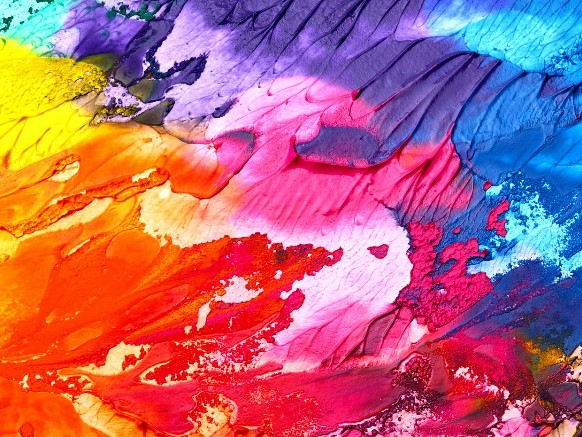
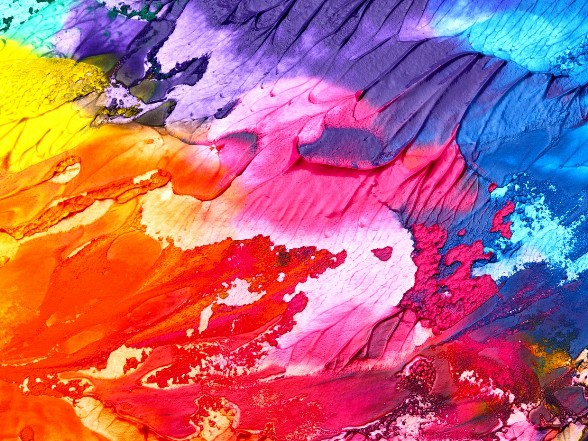
55

diff --git a/pcss/index.css b/pcss/index.css
@@ -34,7 +34,7 @@
 	#imContentGraphics { display: block; -ms-grid-column: 2; -ms-grid-column-span: 1; grid-column: 2 / 3; -ms-grid-row: 2; -ms-grid-row-span: 1; grid-row: 2 / 3; }
 	
 }
-#imContent { display: -ms-grid; display: grid; -ms-grid-columns: minmax(0, 1fr) 27.667px 27.667px 27.667px 27.667px 27.667px 27.667px 27.667px 27.667px 27.667px 27.667px 27.667px 27.667px 27.667px 27.667px 27.667px 27.667px 27.667px 27.667px 27.667px 27.667px 27.667px 27.667px 27.667px 27.667px 27.667px 27.667px 27.667px 27.667px 27.667px 27.667px 27.667px 27.667px 27.667px 27.667px 27.667px 27.667px 27.667px 27.667px 27.667px 27.667px 27.667px 27.667px 27.667px 27.667px 27.667px 27.667px 27.667px 27.667px minmax(0, 1fr); grid-template-columns: minmax(0, 1fr) 27.667px 27.667px 27.667px 27.667px 27.667px 27.667px 27.667px 27.667px 27.667px 27.667px 27.667px 27.667px 27.667px 27.667px 27.667px 27.667px 27.667px 27.667px 27.667px 27.667px 27.667px 27.667px 27.667px 27.667px 27.667px 27.667px 27.667px 27.667px 27.667px 27.667px 27.667px 27.667px 27.667px 27.667px 27.667px 27.667px 27.667px 27.667px 27.667px 27.667px 27.667px 27.667px 27.667px 27.667px 27.667px 27.667px 27.667px 27.667px minmax(0, 1fr); -ms-grid-rows: auto auto auto auto auto auto auto auto auto auto auto auto auto auto auto auto auto auto auto auto auto; grid-template-rows: auto auto auto auto auto auto auto auto auto auto auto auto auto auto auto auto auto auto auto auto auto; }
+#imContent { display: -ms-grid; display: grid; -ms-grid-columns: minmax(0, 1fr) 27.917px 27.917px 27.917px 27.917px 27.917px 27.917px 27.917px 27.917px 27.917px 27.917px 27.917px 27.917px 27.917px 27.917px 27.917px 27.917px 27.917px 27.917px 27.917px 27.917px 27.917px 27.917px 27.917px 27.917px 27.917px 27.917px 27.917px 27.917px 27.917px 27.917px 27.917px 27.917px 27.917px 27.917px 27.917px 27.917px 27.917px 27.917px 27.917px 27.917px 27.917px 27.917px 27.917px 27.917px 27.917px 27.917px 27.917px 27.917px minmax(0, 1fr); grid-template-columns: minmax(0, 1fr) 27.917px 27.917px 27.917px 27.917px 27.917px 27.917px 27.917px 27.917px 27.917px 27.917px 27.917px 27.917px 27.917px 27.917px 27.917px 27.917px 27.917px 27.917px 27.917px 27.917px 27.917px 27.917px 27.917px 27.917px 27.917px 27.917px 27.917px 27.917px 27.917px 27.917px 27.917px 27.917px 27.917px 27.917px 27.917px 27.917px 27.917px 27.917px 27.917px 27.917px 27.917px 27.917px 27.917px 27.917px 27.917px 27.917px 27.917px 27.917px minmax(0, 1fr); -ms-grid-rows: auto auto auto auto auto auto auto auto auto auto auto auto auto auto auto auto auto auto auto auto auto; grid-template-rows: auto auto auto auto auto auto auto auto auto auto auto auto auto auto auto auto auto auto auto auto auto; }
 #imGoToCont { display: block; -ms-grid-column: 2; -ms-grid-column-span: 1; grid-column: 2 / 3; -ms-grid-row: 1; -ms-grid-row-span: 1; grid-row: 1 / 2; }
 #imCell_1 { display: -ms-grid; display: grid; -ms-grid-column: 1; -ms-grid-column-span: 50; grid-column: 1 / 51; -ms-grid-row: 1; -ms-grid-row-span: 1; grid-row: 1 / 2; }
 #imCell_10 { display: -ms-grid; display: grid; -ms-grid-column: 2; -ms-grid-column-span: 48; grid-column: 2 / 50; -ms-grid-row: 2; -ms-grid-row-span: 1; grid-row: 2 / 3; }
@@ -436,10 +436,10 @@ max-height: 100%; position: absolute; top: 0; bottom: 0; left: 3px; margin: auto
 #imObjectImage_12 { position: relative; -ms-grid-row-align: start; align-self: start; -ms-grid-column-align: center; justify-self: center; max-width: 100%; box-sizing: border-box; z-index: 3; }
 #imCellStyleGraphics_12 { position: absolute; top: 0px; bottom: 0px; background-color: transparent; }
 #imCellStyleBorders_12 { position: absolute; top: 0px; bottom: 0px; }
-#imObjectImage_12 #imObjectImage_12_container { width: 662px; max-width: 100%; }
+#imObjectImage_12 #imObjectImage_12_container { width: 668px; max-width: 100%; }
 #imObjectImage_12 { vertical-align: top; margin: 0 auto; }
 #imObjectImage_12 #imObjectImage_12_container img { width: 100%; vertical-align: top; }#imCell_11 { -ms-grid-columns: 100%; grid-template-columns: 100%; position: relative; box-sizing: border-box; }
-#imObjectImage_11 { position: relative; -ms-grid-row-align: start; align-self: start; -ms-grid-column-align: center; justify-self: center; max-width: 100%; box-sizing: border-box; z-index: 3; }
+#imObjectImage_11 { position: relative; -ms-grid-row-align: center; align-self: center; -ms-grid-column-align: center; justify-self: center; max-width: 100%; box-sizing: border-box; z-index: 3; }
 #imCellStyleGraphics_11 { position: absolute; top: 40px; bottom: 40px; background-color: transparent; }
 #imCellStyleBorders_11 { position: absolute; top: 40px; bottom: 40px; }
 #imObjectImage_11 #imObjectImage_11_container { width: 1280px; max-width: 100%; }
@@ -452,7 +452,7 @@ max-height: 100%; position: absolute; top: 0; bottom: 0; left: 3px; margin: auto
 #imObjectImage_14 { position: relative; -ms-grid-row-align: start; align-self: start; -ms-grid-column-align: center; justify-self: center; max-width: 100%; box-sizing: border-box; z-index: 3; }
 #imCellStyleGraphics_14 { position: absolute; top: 0px; bottom: 0px; background-color: transparent; }
 #imCellStyleBorders_14 { position: absolute; top: 0px; bottom: 0px; }
-#imObjectImage_14 #imObjectImage_14_container { width: 592px; max-width: 100%; }
+#imObjectImage_14 #imObjectImage_14_container { width: 598px; max-width: 100%; }
 #imObjectImage_14 { vertical-align: top; margin: 0 auto; }
 #imObjectImage_14 #imObjectImage_14_container img { width: 100%; vertical-align: top; }#imCell_22 { -ms-grid-columns: 100%; grid-template-columns: 100%; position: relative; box-sizing: border-box; }
 #imTextObject_22 { position: relative; -ms-grid-row-align: start; align-self: start; -ms-grid-column-align: center; justify-self: center; max-width: 100%; box-sizing: border-box; z-index: 3; }
@@ -510,7 +510,7 @@ max-height: 100%; position: absolute; top: 0; bottom: 0; left: 3px; margin: auto
 #imObjectImage_09 { position: relative; -ms-grid-row-align: start; align-self: start; -ms-grid-column-align: center; justify-self: center; max-width: 100%; box-sizing: border-box; z-index: 3; }
 #imCellStyleGraphics_9 { position: absolute; top: 0px; bottom: 0px; background-color: transparent; }
 #imCellStyleBorders_9 { position: absolute; top: 0px; bottom: 0px; }
-#imObjectImage_09 #imObjectImage_09_container { width: 592px; max-width: 100%; }
+#imObjectImage_09 #imObjectImage_09_container { width: 598px; max-width: 100%; }
 #imObjectImage_09 { vertical-align: top; margin: 0 auto; }
 #imObjectImage_09 #imObjectImage_09_container img { width: 100%; vertical-align: top; }#imCell_13 { -ms-grid-columns: 100%; grid-template-columns: 100%; position: relative; box-sizing: border-box; }
 #imTextObject_13 { position: relative; -ms-grid-row-align: start; align-self: start; -ms-grid-column-align: center; justify-self: center; max-width: 100%; box-sizing: border-box; z-index: 3; }
@@ -568,7 +568,7 @@ max-height: 100%; position: absolute; top: 0; bottom: 0; left: 3px; margin: auto
 #imObjectImage_17 { position: relative; -ms-grid-row-align: start; align-self: start; -ms-grid-column-align: center; justify-self: center; max-width: 100%; box-sizing: border-box; z-index: 3; }
 #imCellStyleGraphics_17 { position: absolute; top: 0px; bottom: 0px; background-color: transparent; }
 #imCellStyleBorders_17 { position: absolute; top: 0px; bottom: 0px; }
-#imObjectImage_17 #imObjectImage_17_container { width: 592px; max-width: 100%; }
+#imObjectImage_17 #imObjectImage_17_container { width: 598px; max-width: 100%; }
 #imObjectImage_17 { vertical-align: top; margin: 0 auto; }
 #imObjectImage_17 #imObjectImage_17_container img { width: 100%; vertical-align: top; }#imCell_24 { -ms-grid-columns: 100%; grid-template-columns: 100%; position: relative; box-sizing: border-box; }
 #imTextObject_24 { position: relative; -ms-grid-row-align: start; align-self: start; -ms-grid-column-align: center; justify-self: center; max-width: 100%; box-sizing: border-box; z-index: 3; }
@@ -626,7 +626,7 @@ max-height: 100%; position: absolute; top: 0; bottom: 0; left: 3px; margin: auto
 #imObjectImage_16 { position: relative; -ms-grid-row-align: start; align-self: start; -ms-grid-column-align: center; justify-self: center; max-width: 100%; box-sizing: border-box; z-index: 3; }
 #imCellStyleGraphics_16 { position: absolute; top: 0px; bottom: 0px; background-color: transparent; }
 #imCellStyleBorders_16 { position: absolute; top: 0px; bottom: 0px; }
-#imObjectImage_16 #imObjectImage_16_container { width: 592px; max-width: 100%; }
+#imObjectImage_16 #imObjectImage_16_container { width: 598px; max-width: 100%; }
 #imObjectImage_16 { vertical-align: top; margin: 0 auto; }
 #imObjectImage_16 #imObjectImage_16_container img { width: 100%; vertical-align: top; }#imCell_23 { -ms-grid-columns: 100%; grid-template-columns: 100%; position: relative; box-sizing: border-box; }
 #imTextObject_23 { position: relative; -ms-grid-row-align: start; align-self: start; -ms-grid-column-align: center; justify-self: center; max-width: 100%; box-sizing: border-box; z-index: 3; }
@@ -751,7 +751,7 @@ max-height: 100%; position: absolute; top: 0; bottom: 0; left: 3px; margin: auto
 #imObjectImage_30 { position: relative; -ms-grid-row-align: center; align-self: center; -ms-grid-column-align: center; justify-self: center; max-width: 100%; box-sizing: border-box; z-index: 3; }
 #imCellStyleGraphics_30 { position: absolute; top: 0px; bottom: 0px; background-color: transparent; }
 #imCellStyleBorders_30 { position: absolute; top: 0px; bottom: 0px; }
-#imObjectImage_30 #imObjectImage_30_container { width: 582px; max-width: 100%; }
+#imObjectImage_30 #imObjectImage_30_container { width: 588px; max-width: 100%; }
 #imObjectImage_30 { vertical-align: top; margin: 0 auto; }
 #imObjectImage_30 #imObjectImage_30_container img { width: 100%; vertical-align: top; }#imCell_31 { -ms-grid-columns: 100%; grid-template-columns: 100%; position: relative; box-sizing: border-box; }
 #imTextObject_31 { position: relative; -ms-grid-row-align: start; align-self: start; -ms-grid-column-align: center; justify-self: center; max-width: 100%; box-sizing: border-box; z-index: 3; }
@@ -810,7 +810,7 @@ max-height: 100%; position: absolute; top: 0; bottom: 0; left: 3px; margin: auto
 #imObjectImage_28 { position: relative; -ms-grid-row-align: start; align-self: start; -ms-grid-column-align: center; justify-self: center; max-width: 100%; box-sizing: border-box; z-index: 3; }
 #imCellStyleGraphics_28 { position: absolute; top: 0px; bottom: 0px; background-color: transparent; }
 #imCellStyleBorders_28 { position: absolute; top: 0px; bottom: 0px; }
-#imObjectImage_28 #imObjectImage_28_container { width: 582px; max-width: 100%; }
+#imObjectImage_28 #imObjectImage_28_container { width: 588px; max-width: 100%; }
 #imObjectImage_28 { vertical-align: top; margin: 0 auto; }
 #imObjectImage_28 #imObjectImage_28_container img { width: 100%; vertical-align: top; }#imCell_29 { -ms-grid-columns: 100%; grid-template-columns: 100%; position: relative; box-sizing: border-box; }
 #imTextObject_29 { position: relative; -ms-grid-row-align: start; align-self: start; -ms-grid-column-align: center; justify-self: center; max-width: 100%; box-sizing: border-box; z-index: 3; }
@@ -869,7 +869,7 @@ max-height: 100%; position: absolute; top: 0; bottom: 0; left: 3px; margin: auto
 #imObjectImage_34 { position: relative; -ms-grid-row-align: start; align-self: start; -ms-grid-column-align: center; justify-self: center; max-width: 100%; box-sizing: border-box; z-index: 3; }
 #imCellStyleGraphics_34 { position: absolute; top: 0px; bottom: 0px; background-color: transparent; }
 #imCellStyleBorders_34 { position: absolute; top: 0px; bottom: 0px; }
-#imObjectImage_34 #imObjectImage_34_container { width: 582px; max-width: 100%; }
+#imObjectImage_34 #imObjectImage_34_container { width: 588px; max-width: 100%; }
 #imObjectImage_34 { vertical-align: top; margin: 0 auto; }
 #imObjectImage_34 #imObjectImage_34_container img { width: 100%; vertical-align: top; }#imCell_35 { -ms-grid-columns: 100%; grid-template-columns: 100%; position: relative; box-sizing: border-box; }
 #imTextObject_35 { position: relative; -ms-grid-row-align: start; align-self: start; -ms-grid-column-align: center; justify-self: center; max-width: 100%; box-sizing: border-box; z-index: 3; }
@@ -928,7 +928,7 @@ max-height: 100%; position: absolute; top: 0; bottom: 0; left: 3px; margin: auto
 #imObjectImage_32 { position: relative; -ms-grid-row-align: center; align-self: center; -ms-grid-column-align: center; justify-self: center; max-width: 100%; box-sizing: border-box; z-index: 3; }
 #imCellStyleGraphics_32 { position: absolute; top: 0px; bottom: 0px; background-color: transparent; }
 #imCellStyleBorders_32 { position: absolute; top: 0px; bottom: 0px; }
-#imObjectImage_32 #imObjectImage_32_container { width: 582px; max-width: 100%; }
+#imObjectImage_32 #imObjectImage_32_container { width: 588px; max-width: 100%; }
 #imObjectImage_32 { vertical-align: top; margin: 0 auto; }
 #imObjectImage_32 #imObjectImage_32_container img { width: 100%; vertical-align: top; }#imCell_33 { -ms-grid-columns: 100%; grid-template-columns: 100%; position: relative; box-sizing: border-box; }
 #imTextObject_33 { position: relative; -ms-grid-row-align: start; align-self: start; -ms-grid-column-align: center; justify-self: center; max-width: 100%; box-sizing: border-box; z-index: 3; }
@@ -991,7 +991,7 @@ max-height: 100%; position: absolute; top: 0; bottom: 0; left: 3px; margin: auto
 #imObjectImage_38 { position: relative; -ms-grid-row-align: start; align-self: start; -ms-grid-column-align: center; justify-self: center; max-width: 100%; box-sizing: border-box; z-index: 3; }
 #imCellStyleGraphics_38 { position: absolute; top: 0px; bottom: 0px; background-color: transparent; }
 #imCellStyleBorders_38 { position: absolute; top: 0px; bottom: 0px; }
-#imObjectImage_38 #imObjectImage_38_container { width: 664px; max-width: 100%; }
+#imObjectImage_38 #imObjectImage_38_container { width: 670px; max-width: 100%; }
 #imObjectImage_38 { vertical-align: top; margin: 0 auto; }
 #imObjectImage_38 #imObjectImage_38_container img { width: 100%; vertical-align: top; }#imCell_39 { -ms-grid-columns: 100%; grid-template-columns: 100%; position: relative; box-sizing: border-box; }
 #imObjectImage_39 { position: relative; -ms-grid-row-align: end; align-self: end; -ms-grid-column-align: center; justify-self: center; max-width: 100%; box-sizing: border-box; z-index: 3; }
@@ -1016,8 +1016,6 @@ max-height: 100%; position: absolute; top: 0; bottom: 0; left: 3px; margin: auto
 #imCellStyleGraphics_20 { position: absolute; top: 40px; bottom: 0px; background-color: transparent; }
 #imCellStyleBorders_20 { position: absolute; top: 40px; bottom: 0px; }
 @media (min-width: 1340px) {
-	#imContent { padding-left: 10px; padding-right:0px; }
-	#imCell_1, #imCell_20, #imCell_21, .imPageRow { margin-left: -10px; }
 	#imCell_1 { padding-top: 0px; padding-bottom: 0px; padding-left: 0px; padding-right: 0px; }
 	#imCell_1 { -ms-grid-rows: 100%; grid-template-rows: 100%; }
 	#pluginAppObj_01 { padding-top: 0px; padding-bottom: 0px; padding-left: 0px; padding-right: 0px; }

diff --git a/style/template.css b/style/template.css
@@ -23,7 +23,7 @@ body { margin: 0; padding: 0; text-align: left; height: 100%; }
 		#imSideBar { background-image: none; background-color: rgba(238, 242, 245, 1); overflow: visible; zoom: 1; z-index: 200; }
 		#imSideBarObjects { position: relative; height: 600px; }
 		#imStickyBarContainer { top: 0; left: 0; right: 0; margin: auto; width: 100%; height: 81px; box-sizing: border-box; z-index: 10301; }
-		#imStickyBarGraphics { top: 0; left: 0; right: 0; margin: auto; width: 100%; height: 81px; box-sizing: border-box; background-image: url('stickyback_js7swjrc.png'); background-position: left top; background-repeat: repeat-x; background-attachment: scroll; background-color: transparent; position: absolute; opacity: 1}
+		#imStickyBarGraphics { top: 0; left: 0; right: 0; margin: auto; width: 100%; height: 81px; box-sizing: border-box; background-image: url('stickyback_9zu605fd.png'); background-position: left top; background-repeat: repeat-x; background-attachment: scroll; background-color: transparent; position: absolute; opacity: 1}
 		#imStickyBar { position: relative; top: 0; left: 0; margin: auto; width: 1340px }
 		#imStickyBarObjects { position: relative; height: 81px; }
 	
@@ -42,7 +42,7 @@ body { margin: 0; padding: 0; text-align: left; height: 100%; }
 		#imSideBar { background-image: none; background-color: transparent; overflow: visible; zoom: 1; z-index: 200; }
 		#imSideBarObjects { position: relative; height: 600px; }
 		#imStickyBarContainer { top: 0; left: 0; right: 0; margin: auto; width: 100%; height: 81px; box-sizing: border-box; z-index: 10301; }
-		#imStickyBarGraphics { top: 0; left: 0; right: 0; margin: auto; width: 100%; height: 81px; box-sizing: border-box; background-image: url('stickyback_5dq9g1tm.png'); background-position: left top; background-repeat: repeat-x; background-attachment: scroll; background-color: transparent; position: absolute; opacity: 1}
+		#imStickyBarGraphics { top: 0; left: 0; right: 0; margin: auto; width: 100%; height: 81px; box-sizing: border-box; background-image: url('stickyback_v0q576hs.png'); background-position: left top; background-repeat: repeat-x; background-attachment: scroll; background-color: transparent; position: absolute; opacity: 1}
 		#imStickyBar { position: relative; top: 0; left: 0; margin: auto; width: 720px }
 		#imStickyBarObjects { position: relative; height: 81px; }
 	
@@ -61,7 +61,7 @@ body { margin: 0; padding: 0; text-align: left; height: 100%; }
 		#imSideBar { background-image: none; background-color: transparent; overflow: visible; zoom: 1; z-index: 200; }
 		#imSideBarObjects { position: relative; height: 600px; }
 		#imStickyBarContainer { top: 0; left: 0; right: 0; margin: auto; width: 100%; height: 81px; box-sizing: border-box; z-index: 10301; }
-		#imStickyBarGraphics { top: 0; left: 0; right: 0; margin: auto; width: 100%; height: 81px; box-sizing: border-box; background-image: url('stickyback_9xotqjc1.png'); background-position: left top; background-repeat: repeat-x; background-attachment: scroll; background-color: transparent; position: absolute; opacity: 1}
+		#imStickyBarGraphics { top: 0; left: 0; right: 0; margin: auto; width: 100%; height: 81px; box-sizing: border-box; background-image: url('stickyback_kdwc3z40.png'); background-position: left top; background-repeat: repeat-x; background-attachment: scroll; background-color: transparent; position: absolute; opacity: 1}
 		#imStickyBar { position: relative; top: 0; left: 0; margin: auto; width: 480px }
 		#imStickyBarObjects { position: relative; height: 81px; }
 	
@@ -80,7 +80,7 @@ body { margin: 0; padding: 0; text-align: left; height: 100%; }
 		#imSideBar { background-image: none; background-color: transparent; overflow: visible; zoom: 1; z-index: 200; }
 		#imSideBarObjects { position: relative; height: 600px; }
 		#imStickyBarContainer { top: 0; left: 0; right: 0; margin: auto; width: 100%; height: 81px; box-sizing: border-box; z-index: 10301; }
-		#imStickyBarGraphics { top: 0; left: 0; right: 0; margin: auto; width: 100%; height: 81px; box-sizing: border-box; background-image: url('stickyback_ru7ku9zb.png'); background-position: left top; background-repeat: repeat-x; background-attachment: scroll; background-color: transparent; position: absolute; opacity: 1}
+		#imStickyBarGraphics { top: 0; left: 0; right: 0; margin: auto; width: 100%; height: 81px; box-sizing: border-box; background-image: url('stickyback_f501b6hv.png'); background-position: left top; background-repeat: repeat-x; background-attachment: scroll; background-color: transparent; position: absolute; opacity: 1}
 		#imStickyBar { position: relative; top: 0; left: 0; margin: auto; width: 320px }
 		#imStickyBarObjects { position: relative; height: 81px; }
 	

diff --git a/pcss/page-9.css b/pcss/page-9.css
@@ -34,7 +34,7 @@
 	#imContentGraphics { display: block; -ms-grid-column: 2; -ms-grid-column-span: 1; grid-column: 2 / 3; -ms-grid-row: 2; -ms-grid-row-span: 1; grid-row: 2 / 3; }
 	
 }
-#imContent { display: -ms-grid; display: grid; -ms-grid-columns: minmax(0, 1fr) 55.417px 55.417px 55.417px 55.417px 55.417px 55.417px 55.417px 55.417px 55.417px 55.417px 55.417px 55.417px 55.417px 55.417px 55.417px 55.417px 55.417px 55.417px 55.417px 55.417px 55.417px 55.417px 55.417px 55.417px minmax(0, 1fr); grid-template-columns: minmax(0, 1fr) 55.417px 55.417px 55.417px 55.417px 55.417px 55.417px 55.417px 55.417px 55.417px 55.417px 55.417px 55.417px 55.417px 55.417px 55.417px 55.417px 55.417px 55.417px 55.417px 55.417px 55.417px 55.417px 55.417px 55.417px minmax(0, 1fr); -ms-grid-rows: auto auto auto auto auto auto auto auto auto; grid-template-rows: auto auto auto auto auto auto auto auto auto; }
+#imContent { display: -ms-grid; display: grid; -ms-grid-columns: minmax(0, 1fr) 55.833px 55.833px 55.833px 55.833px 55.833px 55.833px 55.833px 55.833px 55.833px 55.833px 55.833px 55.833px 55.833px 55.833px 55.833px 55.833px 55.833px 55.833px 55.833px 55.833px 55.833px 55.833px 55.833px 55.833px minmax(0, 1fr); grid-template-columns: minmax(0, 1fr) 55.833px 55.833px 55.833px 55.833px 55.833px 55.833px 55.833px 55.833px 55.833px 55.833px 55.833px 55.833px 55.833px 55.833px 55.833px 55.833px 55.833px 55.833px 55.833px 55.833px 55.833px 55.833px 55.833px 55.833px minmax(0, 1fr); -ms-grid-rows: auto auto auto auto auto auto auto auto auto; grid-template-rows: auto auto auto auto auto auto auto auto auto; }
 #imContent > header { display: block; -ms-grid-column: 2; -ms-grid-column-span: 24; grid-column: 2 / 26; -ms-grid-row: 1; -ms-grid-row-span: 1; grid-row: 1 / 2; }
 #imGoToCont { display: block; -ms-grid-column: 2; -ms-grid-column-span: 1; grid-column: 2 / 3; -ms-grid-row: 1; -ms-grid-row-span: 1; grid-row: 1 / 2; }
 #imCell_4 { display: -ms-grid; display: grid; -ms-grid-column: 2; -ms-grid-column-span: 24; grid-column: 2 / 26; -ms-grid-row: 2; -ms-grid-row-span: 1; grid-row: 2 / 3; }
@@ -424,7 +424,7 @@ max-height: 100%; position: absolute; top: 0; bottom: 0; left: 3px; margin: auto
 #imObjectImage_9_24 { position: relative; -ms-grid-row-align: start; align-self: start; -ms-grid-column-align: center; justify-self: center; max-width: 100%; box-sizing: border-box; z-index: 3; }
 #imCellStyleGraphics_24 { position: absolute; top: 35px; bottom: 35px; background-color: transparent; }
 #imCellStyleBorders_24 { position: absolute; top: 35px; bottom: 35px; }
-#imObjectImage_9_24 #imObjectImage_9_24_container { width: 1248px; max-width: 100%; }
+#imObjectImage_9_24 #imObjectImage_9_24_container { width: 1258px; max-width: 100%; }
 #imObjectImage_9_24 { vertical-align: top; margin: 0 auto; }
 #imObjectImage_9_24 #imObjectImage_9_24_container img { width: 100%; vertical-align: top; }#imCell_30 { -ms-grid-columns: 100%; grid-template-columns: 100%; position: relative; box-sizing: border-box; }
 #pluginAppObj_9_30 { position: relative; -ms-grid-row-align: start; align-self: start; -ms-grid-column-align: center; justify-self: center; max-width: 100%; box-sizing: border-box; z-index: 3; }
@@ -484,9 +484,7 @@ max-height: 100%; position: absolute; top: 0; bottom: 0; left: 3px; margin: auto
 #imTextObject_9_31 .text-container .grid-prop {-ms-grid-column: 1; -ms-grid-row: 1; grid-area: 1 / 1 / 2 / 2; opacity: 0; box-sizing: border-box; position: relative;  }
 #imTextObject_9_31 .text-container .text-tab-content.detach {position: absolute; top: 0; left: 0; width: 100%; display: none; }
 @media (min-width: 1340px) {
-	#imContent { padding-left: 10px; padding-right:0px; }
-	#imCell_30, .imPageRow { margin-left: -10px; }
-	#imPgTitle { width: 1316px; margin-left: 6px; margin-right: 6px; }
+	#imPgTitle { width: 1326px; margin-left: 6px; margin-right: 6px; }
 	#imCell_4 { padding-top: 3px; padding-bottom: 3px; padding-left: 3px; padding-right: 3px; }
 	#imCell_4 { -ms-grid-rows: 100%; grid-template-rows: 100%; }
 	#pluginAppObj_9_04 { padding-top: 3px; padding-bottom: 3px; padding-left: 3px; padding-right: 3px; }

diff --git a/pcss/admin.css b/pcss/admin.css
@@ -34,7 +34,7 @@
 	#imContentGraphics { display: block; -ms-grid-column: 2; -ms-grid-column-span: 1; grid-column: 2 / 3; -ms-grid-row: 2; -ms-grid-row-span: 1; grid-row: 2 / 3; }
 	
 }
-#imContent { display: -ms-grid; display: grid; -ms-grid-columns: minmax(0, 1fr) 55.417px 55.417px 55.417px 55.417px 55.417px 55.417px 55.417px 55.417px 55.417px 55.417px 55.417px 55.417px 55.417px 55.417px 55.417px 55.417px 55.417px 55.417px 55.417px 55.417px 55.417px 55.417px 55.417px 55.417px minmax(0, 1fr); grid-template-columns: minmax(0, 1fr) 55.417px 55.417px 55.417px 55.417px 55.417px 55.417px 55.417px 55.417px 55.417px 55.417px 55.417px 55.417px 55.417px 55.417px 55.417px 55.417px 55.417px 55.417px 55.417px 55.417px 55.417px 55.417px 55.417px 55.417px minmax(0, 1fr); -ms-grid-rows: auto auto; grid-template-rows: auto auto; }
+#imContent { display: -ms-grid; display: grid; -ms-grid-columns: minmax(0, 1fr) 55.833px 55.833px 55.833px 55.833px 55.833px 55.833px 55.833px 55.833px 55.833px 55.833px 55.833px 55.833px 55.833px 55.833px 55.833px 55.833px 55.833px 55.833px 55.833px 55.833px 55.833px 55.833px 55.833px 55.833px minmax(0, 1fr); grid-template-columns: minmax(0, 1fr) 55.833px 55.833px 55.833px 55.833px 55.833px 55.833px 55.833px 55.833px 55.833px 55.833px 55.833px 55.833px 55.833px 55.833px 55.833px 55.833px 55.833px 55.833px 55.833px 55.833px 55.833px 55.833px 55.833px 55.833px minmax(0, 1fr); -ms-grid-rows: auto auto; grid-template-rows: auto auto; }
 #imContent > header { display: block; -ms-grid-column: 2; -ms-grid-column-span: 24; grid-column: 2 / 26; -ms-grid-row: 1; -ms-grid-row-span: 1; grid-row: 1 / 2; }
 #imGoToCont { display: block; -ms-grid-column: 2; -ms-grid-column-span: 1; grid-column: 2 / 3; -ms-grid-row: 1; -ms-grid-row-span: 1; grid-row: 1 / 2; }
 #imPageRow_1 { display: none; }
@@ -195,9 +195,7 @@ max-height: 100%; position: absolute; top: 0; bottom: 0; left: 3px; margin: auto
 .im-menu-opened #imStickyBarContainer, .im-menu-opened #imPageToTop { visibility: hidden !important; }
 .imPageRow { position: relative;  }
 @media (min-width: 1340px) {
-	#imContent { padding-left: 10px; padding-right:0px; }
-	.imPageRow { margin-left: -10px; }
-	#imPgTitle { width: 1316px; margin-left: 6px; margin-right: 6px; }
+	#imPgTitle { width: 1326px; margin-left: 6px; margin-right: 6px; }
 	
 }
 

diff --git a/blog/style.css b/blog/style.css
@@ -453,16 +453,16 @@ max-height: 100%; position: absolute; top: 0; bottom: 0; left: 3px; margin: auto
 	#imBlogPost_00000000D .image-5 { width: 100%; max-width: 820px; }
 	#imBlogPost_000000007 .image-3 { width: 100%; max-width: 808px; }
 	#imBlogPost_000000007 .image-4 { width: 100%; max-width: 817px; }
-	#imBlogPage { position: relative; box-sizing: border-box; margin-left: 0; margin-right: 0; padding: 0 0px 0 10px; }
-	#imBlogPage.imBlogHome #imBlogContent { width: 1070px; margin-right: 10px; }
-	#imBlogPage.imBlogArticle #imBlogContent { width: 1070px; margin-right: 10px; }
-	.imBlogPostCard { width: 530px; height: 400px; float: left; box-sizing: border-box; margin: 10px 10px 0 0; line-height: 1.5; }
+	#imBlogPage { position: relative; box-sizing: border-box; margin-left: 0; margin-right: 0; padding: 0 0px 0 0px; }
+	#imBlogPage.imBlogHome #imBlogContent { width: 1080px; margin-right: 10px; }
+	#imBlogPage.imBlogArticle #imBlogContent { width: 1080px; margin-right: 10px; }
+	.imBlogPostCard { width: 535px; height: 400px; float: left; box-sizing: border-box; margin: 10px 10px 0 0; line-height: 1.5; }
 	.imBlogPostCard:nth-of-type(-n+2) { margin-top: 0; }
 	.imBlogPostCard:nth-of-type(2n) { margin-right: 0; }
-	.imBlogPagination { width: 1070px; }
+	.imBlogPagination { width: 1080px; }
 	#imBlogPage.imBlogHome #imBlogSidebar { width: 250px; }
 	#imBlogPage.imBlogArticle #imBlogSidebar { width: 250px; }
-	.imBlogHighlightedCards .imBlogPostCard { width: 1070px; height: 400px; margin-top: 0; margin-bottom: 10px; }
+	.imBlogHighlightedCards .imBlogPostCard { width: 1080px; height: 400px; margin-top: 0; margin-bottom: 10px; }
 	.imBlogPostCard { display: grid; display: -ms-grid; grid-template-columns: auto; -ms-grid-columns: 1fr; grid-template-rows: 0% auto auto 1fr auto; -ms-grid-rows: 0% auto auto 1fr auto auto; }
 	.imBlogPostCardWithCover { grid-template-rows: 50% auto auto 1fr auto; -ms-grid-rows: 50% auto auto 1fr auto auto; }
 	.imBlogPostCardCover { grid-column: 1 / 2; -ms-grid-column: 1; grid-row: 1 / 2; -ms-grid-row: 1; }

diff --git a/index.html b/index.html
@@ -23,7 +23,7 @@
 		<link rel="stylesheet" href="pluginAppObj/imHeader_pluginAppObj_04/custom.css" media="screen, print" />
 		
 		<link rel="stylesheet" href="pluginAppObj/imSideBar_pluginAppObj_01/custom.css" media="screen, print" />
-		<link rel="stylesheet" href="pcss/index.css?2019-3-14-0-637175784171299964" media="screen,print" />
+		<link rel="stylesheet" href="pcss/index.css?2019-3-14-0-637175787967568961" media="screen,print" />
 		<script src="res/jquery.js?2019-3-14-0"></script>
 		<script src="res/x5engine.js?2019-3-14-0" data-files-version="2019-3-14-0"></script>
 		<script src="pluginAppObj/imHeader_pluginAppObj_04/main.js"></script>
@@ -36,7 +36,7 @@
 			x5engine.boot.push(function () { x5engine.imageSequence.start(); });
 			x5engine.boot.push(function () { x5engine.imPageToTop.initializeButton({}); });
 		</script>
-		<link rel="icon" href="favicon.png?2019-3-14-0-637175784168487599" type="image/png" />
+		<link rel="icon" href="favicon.png?2019-3-14-0-637175787964839094" type="image/png" />
 		<link rel="alternate" type="application/rss+xml" title="Блог о самом интересном" href="blog/x5feed.php" />
 		<style>
 h1, h2, h3, h4, h5, h6 {

diff --git a/page-9.html b/page-9.html
@@ -18,7 +18,7 @@
 		<link rel="stylesheet" href="pluginAppObj/imHeader_pluginAppObj_04/custom.css" media="screen, print" />
 		
 		<link rel="stylesheet" href="pluginAppObj/imSideBar_pluginAppObj_01/custom.css" media="screen, print" />
-		<link rel="stylesheet" href="pcss/page-9.css?2019-3-14-0-637175784173829934" media="screen,print" />
+		<link rel="stylesheet" href="pcss/page-9.css?2019-3-14-0-637175787971168676" media="screen,print" />
 		<script src="res/jquery.js?2019-3-14-0"></script>
 		<script src="res/x5engine.js?2019-3-14-0" data-files-version="2019-3-14-0"></script>
 		<script src="pluginAppObj/imHeader_pluginAppObj_04/main.js"></script>
@@ -29,7 +29,7 @@
 			x5engine.utils.currentPagePath = 'page-9.html';
 			x5engine.boot.push(function () { x5engine.imPageToTop.initializeButton({}); });
 		</script>
-		<link rel="icon" href="favicon.png?2019-3-14-0-637175784172862363" type="image/png" />
+		<link rel="icon" href="favicon.png?2019-3-14-0-637175787969788786" type="image/png" />
 		<link rel="alternate" type="application/rss+xml" title="Блог о самом интересном" href="blog/x5feed.php" />
 		<style>
 h1, h2, h3, h4, h5, h6 {

diff --git a/pcss/imsearch.css b/pcss/imsearch.css
@@ -188,8 +188,8 @@ max-height: 100%; position: absolute; top: 0; bottom: 0; left: 3px; margin: auto
 /* SIDE MENU  */
 
 @media (min-width: 1340px) {
-	#imSearchContent { width: 1117px; padding: 20px 0; float: right; }
-	#imSearchSideBar { width: 186px; padding: 20px 0; float: left; }
+	#imSearchContent { width: 1125px; padding: 20px 0; float: right; }
+	#imSearchSideBar { width: 187px; padding: 20px 0; float: left; }
 	#imSearchSideBar li { display: block; width: 100%; }
 	
 }
@@ -252,7 +252,7 @@ max-height: 100%; position: absolute; top: 0; bottom: 0; left: 3px; margin: auto
 .imSearchVideoResult img { border-width: 0; width: 94%; padding-left: 3%; padding-right: 3%; float: left; }
 .imSearchVideoDuration { margin-top: 5px; clear: both; display: block; text-decoration: none; color: gray; font-weight: normal; }
 @media (min-width: 1340px) {
-	#imSearchPage { box-sizing: border-box; margin-left: auto; margin-right: auto; padding: 0 0px 0 10px; }
+	#imSearchPage { box-sizing: border-box; margin-left: auto; margin-right: auto; padding: 0 0px 0 0px; }
 	
 }
 

diff --git a/pcss/imlogin.css b/pcss/imlogin.css
@@ -187,7 +187,7 @@ max-height: 100%; position: absolute; top: 0; bottom: 0; left: 3px; margin: auto
 #imLoginError { color: red; }
 .imLogoutLink { color: inherit; }
 @media (min-width: 1340px) {
-	#imLoginPage { box-sizing: border-box; margin-left: 0; margin-right: 0; padding: 0 0px 0 10px; }
+	#imLoginPage { box-sizing: border-box; margin-left: 0; margin-right: 0; padding: 0 0px 0 0px; }
 	
 }
 

diff --git a/blog/index.php b/blog/index.php
@@ -26,7 +26,7 @@ if (!$data['valid']) {
 		<link rel="stylesheet" href="../pluginAppObj/imHeader_pluginAppObj_04/custom.css" media="screen, print" />
 		
 		<link rel="stylesheet" href="../pluginAppObj/imSideBar_pluginAppObj_01/custom.css" media="screen, print" />
-		<link rel="stylesheet" href="../blog/style.css?2019-3-14-0-637175784181485912" media="screen,print" />
+		<link rel="stylesheet" href="../blog/style.css?2019-3-14-0-637175787977638288" media="screen,print" />
 		<script src="../res/jquery.js?2019-3-14-0"></script>
 		<script src="../res/x5engine.js?2019-3-14-0" data-files-version="2019-3-14-0"></script>
 		<script src="../pluginAppObj/imHeader_pluginAppObj_04/main.js"></script>
@@ -38,7 +38,7 @@ if (!$data['valid']) {
 			x5engine.utils.currentPagePath = 'blog/index.php';
 			x5engine.boot.push(function () { x5engine.imPageToTop.initializeButton({}); });
 		</script>
-		<link rel="icon" href="../favicon.png?2019-3-14-0-637175784181485912" type="image/png" />
+		<link rel="icon" href="../favicon.png?2019-3-14-0-637175787977378310" type="image/png" />
 		<link rel="alternate" type="application/rss+xml" title="Блог о самом интересном" href="../blog/x5feed.php" />
 <?php
 $blogBaseUrl = $imSettings['general']['url'] . 'blog';
@@ -243,7 +243,7 @@ $(function () {$('#imStickyBar_imMenuObject_03_container > ul > li').not('.imMnM
 							x5engine.boot.push(function () { 
 								x5engine.blogSidebarScroll({ enabledBreakpoints: ['10dfba31a11829c457bad9cff3c2daf1', 'd2f9bff7f63c0d6b7c7d55510409c19b', '72e5146e7d399bc2f8a12127e43469f1'] });
 								var postHeightAtDesktop = 350,
-									postWidthAtDesktop = 1060;
+									postWidthAtDesktop = 1070;
 								if ($('#imBlogPage').hasClass('imBlogArticle')) {
 									var coverResizeTo = null,
 										coverWidth = 0;

diff --git a/imlogin.php b/imlogin.php
@@ -34,7 +34,7 @@ if (isset($_POST['imUname']) && isset($_POST['imPwd'])) {
 		<link rel="stylesheet" href="pluginAppObj/imHeader_pluginAppObj_04/custom.css" media="screen, print" />
 		
 		<link rel="stylesheet" href="pluginAppObj/imSideBar_pluginAppObj_01/custom.css" media="screen, print" />
-		<link rel="stylesheet" href="pcss/imlogin.css?2019-3-14-0-637175784164269018" media="screen,print" />
+		<link rel="stylesheet" href="pcss/imlogin.css?2019-3-14-0-637175787967758891" media="screen,print" />
 		<script src="res/jquery.js?2019-3-14-0"></script>
 		<script src="res/x5engine.js?2019-3-14-0" data-files-version="2019-3-14-0"></script>
 		<script src="pluginAppObj/imHeader_pluginAppObj_04/main.js"></script>
@@ -45,7 +45,7 @@ if (isset($_POST['imUname']) && isset($_POST['imPwd'])) {
 			x5engine.utils.currentPagePath = 'imlogin.php';
 			x5engine.boot.push(function () { x5engine.imPageToTop.initializeButton({}); });
 		</script>
-		<link rel="icon" href="favicon.png?2019-3-14-0-637175784164269018" type="image/png" />
+		<link rel="icon" href="favicon.png?2019-3-14-0-637175787967708906" type="image/png" />
 		<link rel="alternate" type="application/rss+xml" title="Блог о самом интересном" href="blog/x5feed.php" />
 		<style>
 h1, h2, h3, h4, h5, h6 {

diff --git a/imsearch.php b/imsearch.php
@@ -15,7 +15,7 @@
 		<link rel="stylesheet" href="pluginAppObj/imHeader_pluginAppObj_04/custom.css" media="screen, print" />
 		
 		<link rel="stylesheet" href="pluginAppObj/imSideBar_pluginAppObj_01/custom.css" media="screen, print" />
-		<link rel="stylesheet" href="pcss/imsearch.css?2019-3-14-0-637175784164112829" media="screen,print" />
+		<link rel="stylesheet" href="pcss/imsearch.css?2019-3-14-0-637175787961599322" media="screen,print" />
 		<script src="res/jquery.js?2019-3-14-0"></script>
 		<script src="res/x5engine.js?2019-3-14-0" data-files-version="2019-3-14-0"></script>
 		<script src="pluginAppObj/imHeader_pluginAppObj_04/main.js"></script>
@@ -26,7 +26,7 @@
 			x5engine.utils.currentPagePath = 'imsearch.php';
 			x5engine.boot.push(function () { x5engine.imPageToTop.initializeButton({}); });
 		</script>
-		<link rel="icon" href="favicon.png?2019-3-14-0-637175784164112829" type="image/png" />
+		<link rel="icon" href="favicon.png?2019-3-14-0-637175787961279328" type="image/png" />
 		<link rel="alternate" type="application/rss+xml" title="Блог о самом интересном" href="blog/x5feed.php" />
 		<style>
 h1, h2, h3, h4, h5, h6 {
